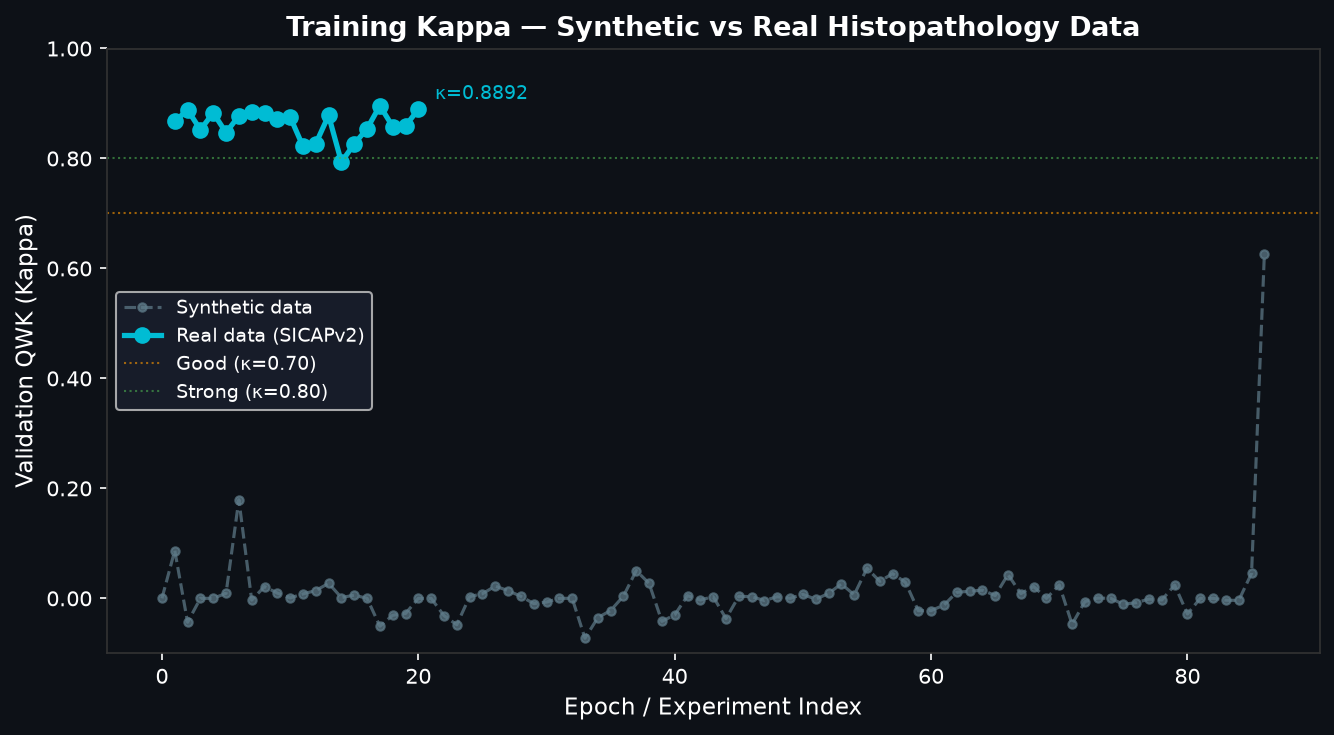
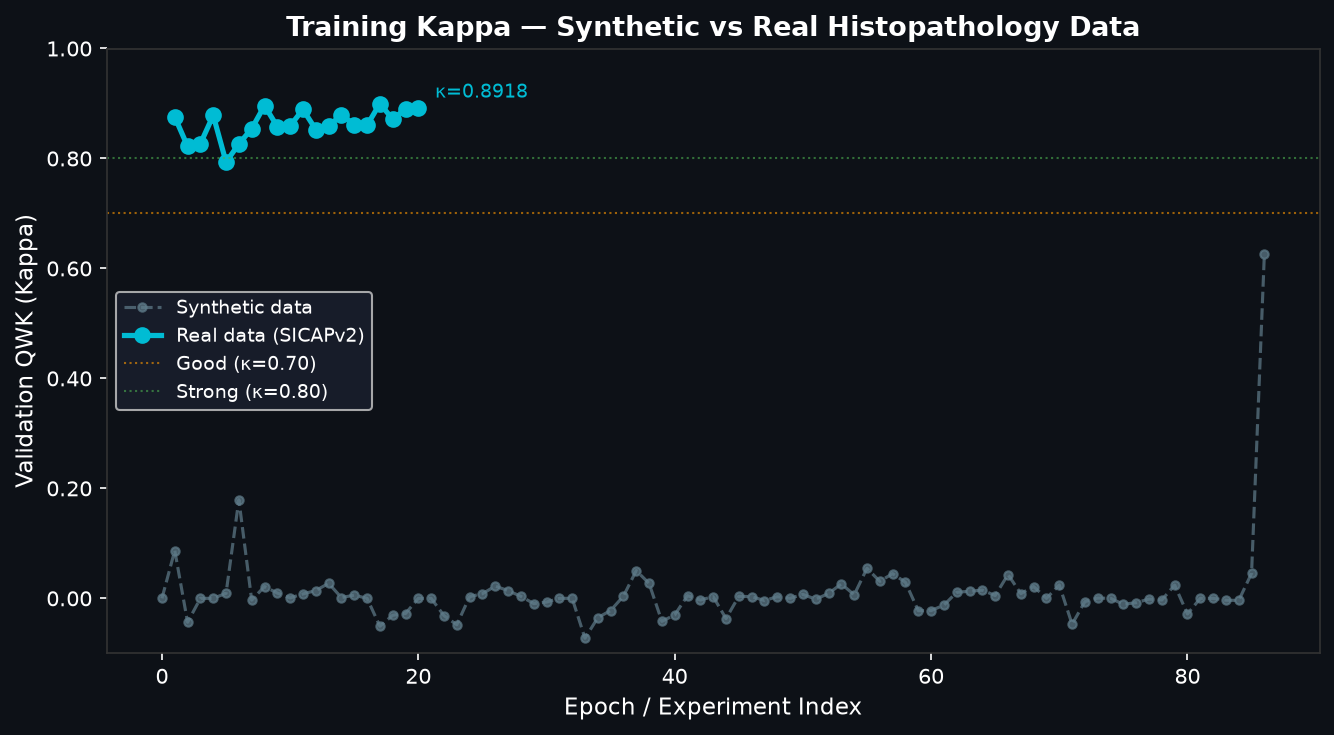
docs(auto): update results & paper after sweep backbone=efficientnet_b0 kappa=[latest]

Changed region(s): [[0.1229, 0.0898, 0.3996, 0.2395]]

diff --git a/docs/RESULTS.md b/docs/RESULTS.md
@@ -1,6 +1,6 @@
 # Prostate CADx — Experiment Results
 
-> Auto-generated: 2026-07-07 20:38 UTC
+> Auto-generated: 2026-07-07 21:57 UTC
 
 ## Summary (Best Real-Data Run)
 
@@ -149,6 +149,15 @@
 | 126 | 2026-07-07 20:24:50 | Real (SICAPv2) | 2 | 32 | 0.8580 | 0.5312 |
 | 127 | 2026-07-07 20:31:31 | Real (SICAPv2) | 3 | 32 | 0.8594 | 0.5631 |
 | 128 | 2026-07-07 20:38:24 | Real (SICAPv2) | 4 | 32 | 0.8892 | 0.6110 |
+| 129 | 2026-07-07 21:00:33 | Real (SICAPv2) | 1 | 32 | 0.8527 | 0.5095 |
+| 130 | 2026-07-07 21:07:36 | Real (SICAPv2) | 2 | 32 | 0.8590 | 0.5146 |
+| 131 | 2026-07-07 21:14:47 | Real (SICAPv2) | 3 | 32 | 0.8792 | 0.4791 |
+| 132 | 2026-07-07 21:21:54 | Real (SICAPv2) | 4 | 32 | 0.8617 | 0.6209 |
+| 133 | 2026-07-07 21:29:04 | Real (SICAPv2) | 5 | 32 | 0.8604 | 0.6627 |
+| 134 | 2026-07-07 21:36:12 | Real (SICAPv2) | 6 | 32 | 0.8998 | 0.6021 |
+| 135 | 2026-07-07 21:43:16 | Real (SICAPv2) | 7 | 32 | 0.8714 | 0.7329 |
+| 136 | 2026-07-07 21:50:19 | Real (SICAPv2) | 8 | 32 | 0.8901 | 0.5854 |
+| 137 | 2026-07-07 21:57:30 | Real (SICAPv2) | 9 | 32 | 0.8918 | 0.6470 |
 
 ---
 
@@ -157,8 +166,8 @@
 | Metric | Synthetic (Fallback) | Real (SICAPv2) |
 |--------|---------------------|----------------|
 | Best Val Kappa | 0.6269 | **0.9086** |
-| Mean Val Kappa | 0.0103 | 0.6628 |
-| N Experiments | 87 | 41 |
+| Mean Val Kappa | 0.0103 | 0.7024 |
+| N Experiments | 87 | 50 |
 
 ---
 